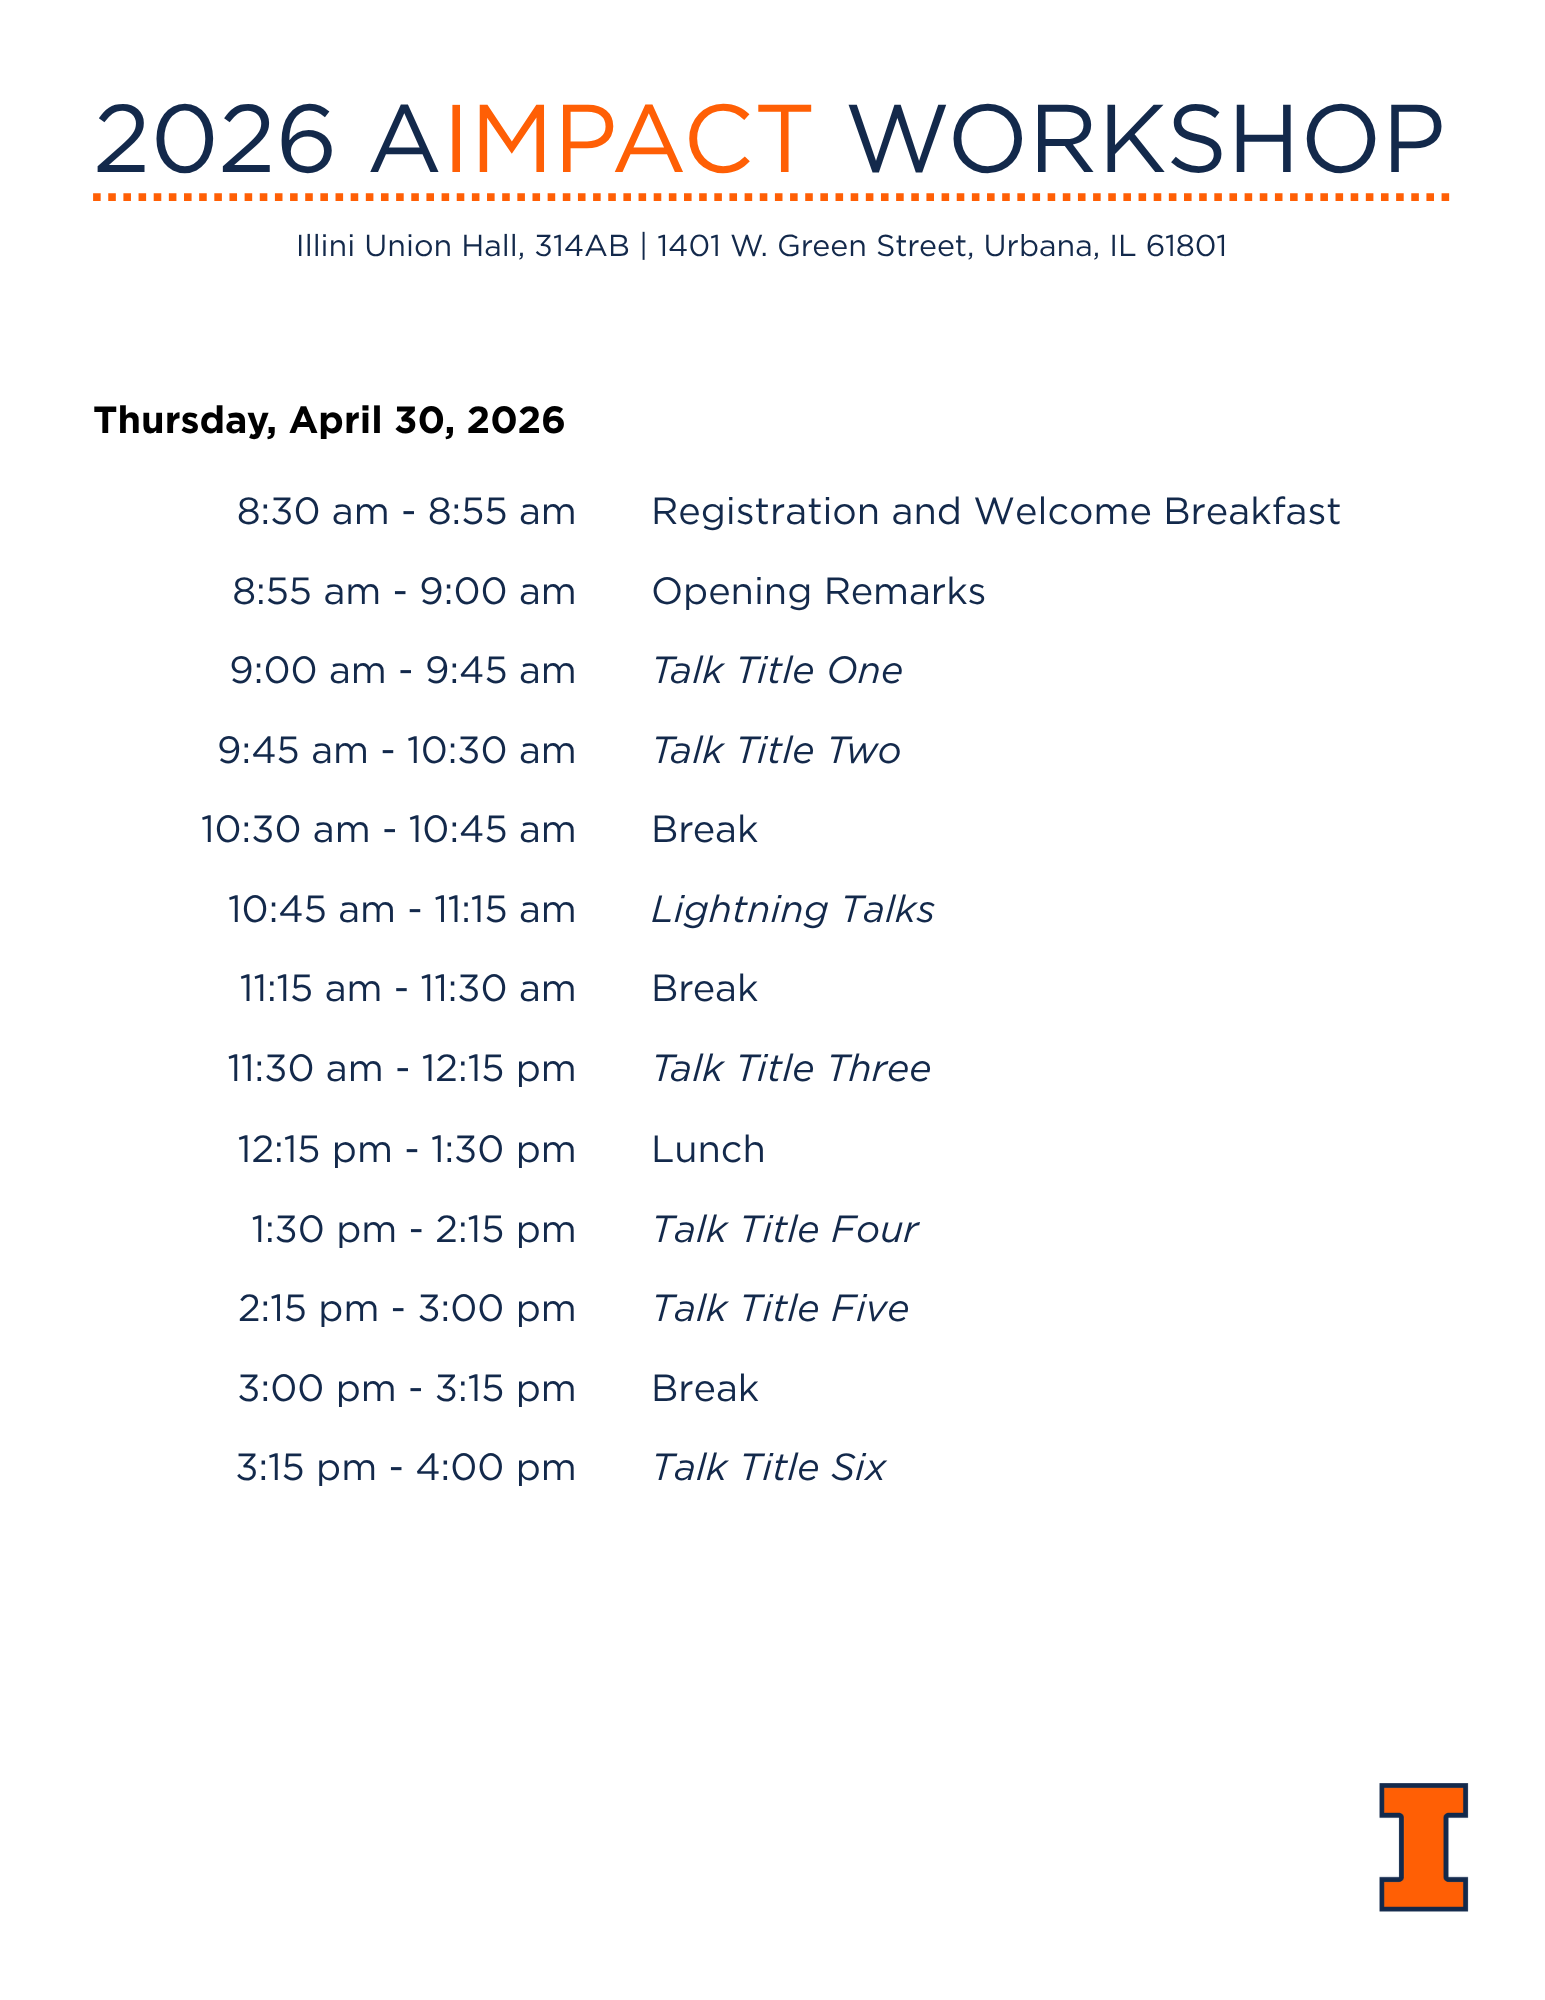
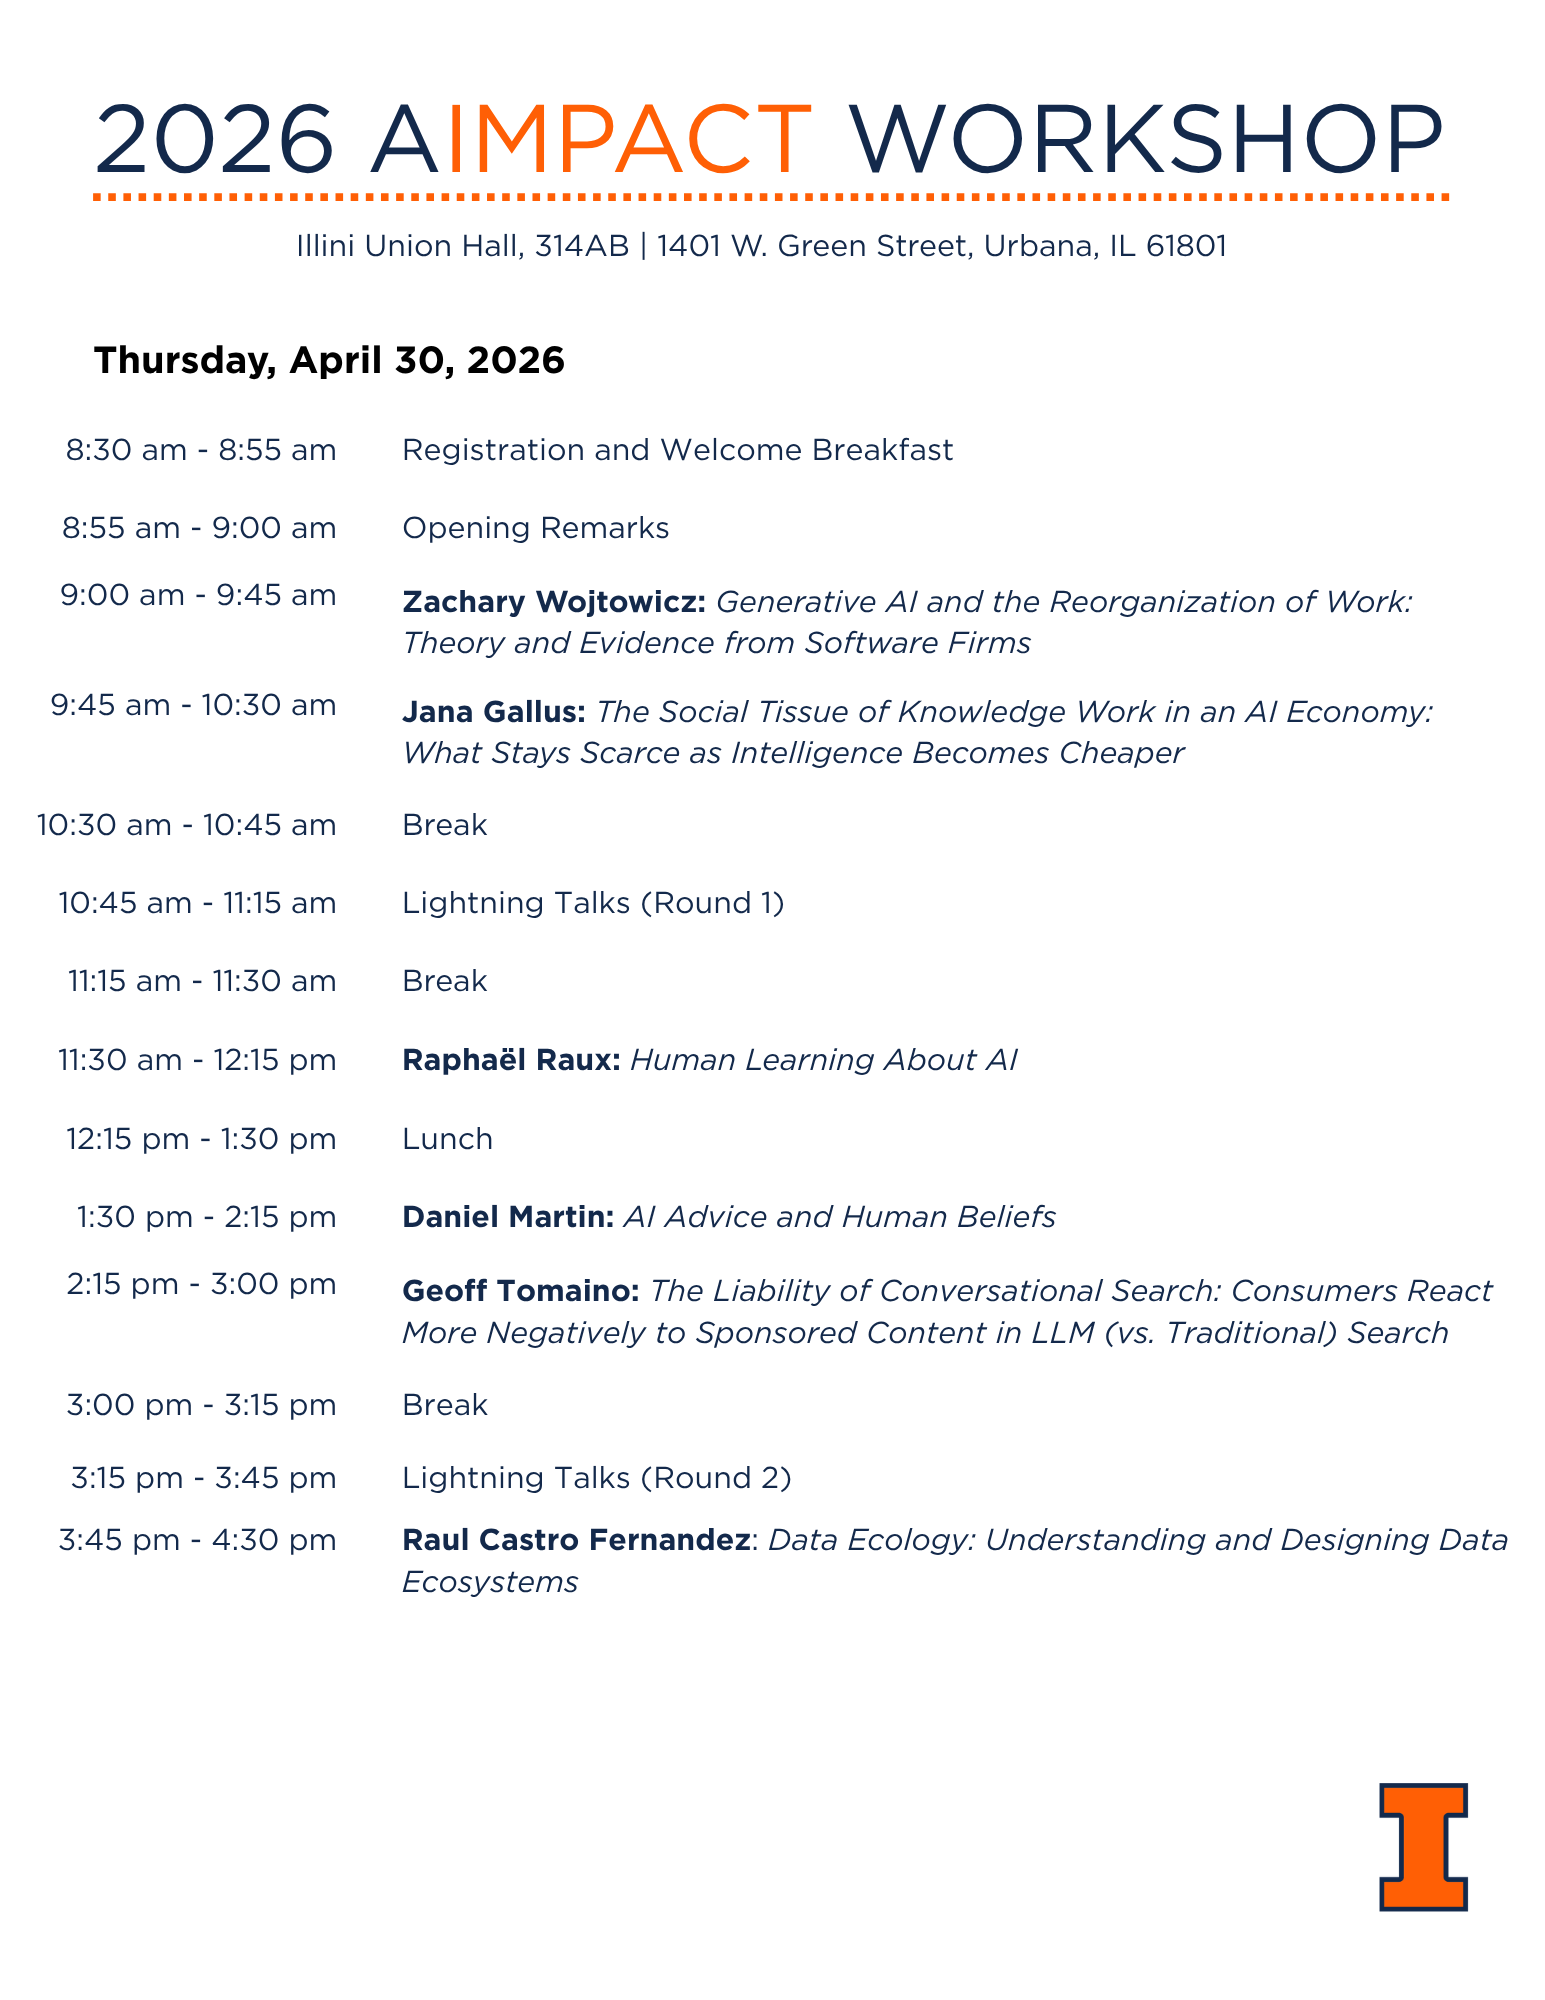
Updated workshop schedule images (and un-hid schedule)

diff --git a/events/aimpact-workshop-2026.html b/events/aimpact-workshop-2026.html
@@ -87,7 +87,7 @@
 			</div>
 
 			<!-- Schedule -->
-			<!-- <div class="wrapper style2">
+			<div class="wrapper style2">
 				<div class="container">
 					<header>
 						<h3>Tentative Schedule</h3>
@@ -107,7 +107,7 @@
 						</div>
 					</div>
 				</div>
-			</div> -->
+			</div>
 
 			<!-- Contact -->
 			<div class="wrapper style1">
